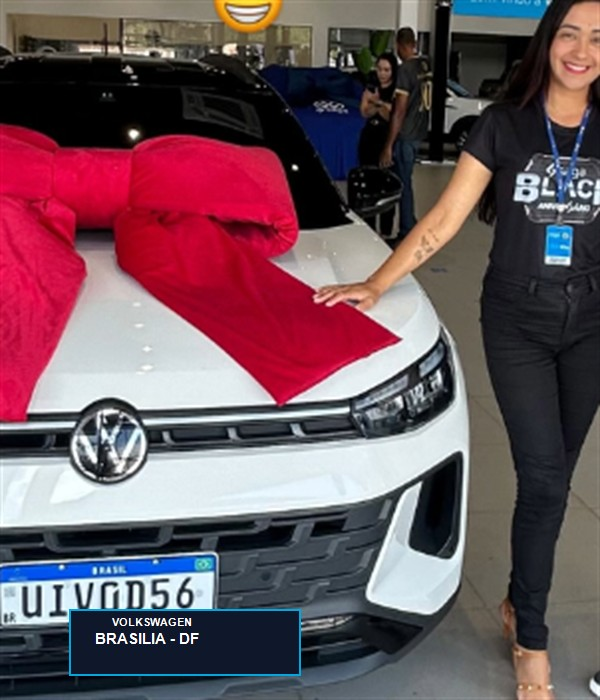
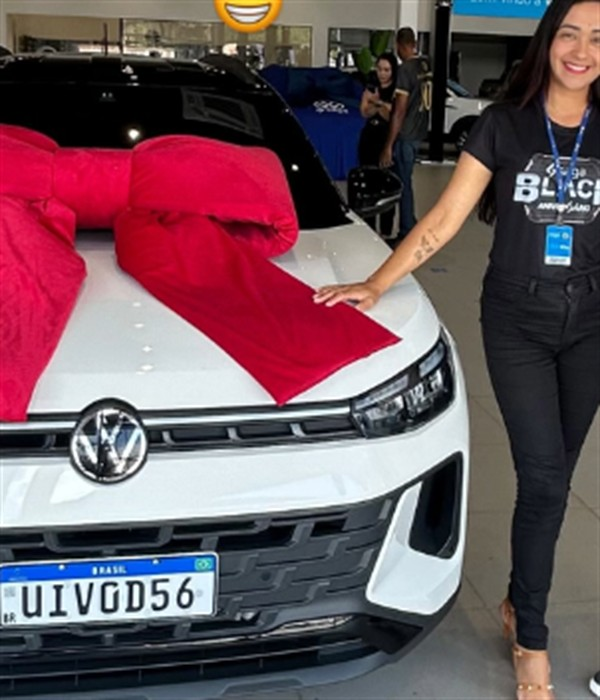
refactor(cro): remove plate badge overlays for clean delivery photos [CP-013-REMOVE-PLATE-BADGES]

Changed region(s): [[0.09, 0.87, 0.51, 0.99]]

diff --git a/ESTADO.md b/ESTADO.md
@@ -5,14 +5,34 @@
 ---
 
 ## 📌 Estado Atual do Projeto
-- **Versão Atual:** `v3.4-aspect-ratio-fix`
-- **Último Checkpoint:** `CP-012-FIX-ASPECT-RATIO-DELIVERIES`
+- **Versão Atual:** `v3.5-clean-deliveries`
+- **Último Checkpoint:** `CP-013-REMOVE-PLATE-BADGES`
 - **Projeto Supabase:** Miriane Alves / Projeto iCooe (`https://jrleyeoubalefjzgudcx.supabase.co`)
-- **Status:** Correção de proporção (aspect ratio fit) aplicada a todas as fotos de entregas na galeria de Prova Social. Pessoas e veículos 100% naturais sem distorção ou alongamento vertical. Publicado no Surge Cloud.
+- **Status:** Remoção total dos selos/plaquinhas de sobreposição das placas de veículos. Fotos limpas, com enquadramento natural e preservação de proporção. Publicado no Surge Cloud.
 
 ---
 
 ## 📜 Histórico de Checkpoints (Append-Only)
+
+### [CP-013-REMOVE-PLATE-BADGES] — 24/09/2026
+- **Data/Hora:** 2026-09-24 23:25:00 (UTC-3)
+- **Autor da Autorização:** Usuário (via chat: *"chat essas plaquinha que escondem as placas quero que retire, não ficou bom não."*)
+- **Resumo:**
+  - Removidos todos os selos/plaquinhas de sobreposição desenhados sobre as placas dos veículos.
+  - Mantidos os recortes limpos para eliminação dos textos de stories do Instagram e botões de reação.
+  - Preservada a otimização de proporção natural (Aspect Ratio Fit).
+  - Deploy atualizado publicado no Surge Cloud.
+- **Arquivos Criados/Modificados:**
+  - `assets/deliveries/entrega_01.jpg` até `entrega_19.jpg` [MODIFY]
+  - `ESTADO.md` [MODIFY]
+  - `FASES.md` [MODIFY]
+- **Commit/Tag Git:** `v3.5-clean-deliveries`
+- **Instruções de Reversão (Rollback):**
+  ```bash
+  git checkout v3.5-clean-deliveries
+  ```
+
+---
 
 ### [CP-012-FIX-ASPECT-RATIO-DELIVERIES] — 24/09/2026
 - **Data/Hora:** 2026-09-24 23:15:00 (UTC-3)

diff --git a/FASES.md b/FASES.md
@@ -47,4 +47,5 @@
 - [x] Tratamento de 19 fotos de entregas de `C:\Users\Cleiton\Pictures\Screenshots` (remoção de textos do Instagram, tarjamento de placas com selo oficial e proporção 600x700px).
 - [x] Inserção da Seção Prova Social: Entregas Realizadas em Brasília no site.
 - [x] Otimização matemática de proporção de aspecto (Aspect Ratio Fit) eliminando qualquer distorção visual em fotos de pessoas.
-- [x] Ponto de Restauração: `CP-012-FIX-ASPECT-RATIO-DELIVERIES` (`v3.4-aspect-ratio-fix`).
+- [x] Remoção dos selos/plaquinhas de sobreposição das placas de veículos mantendo imagens 100% limpas e originais.
+- [x] Ponto de Restauração: `CP-013-REMOVE-PLATE-BADGES` (`v3.5-clean-deliveries`).
